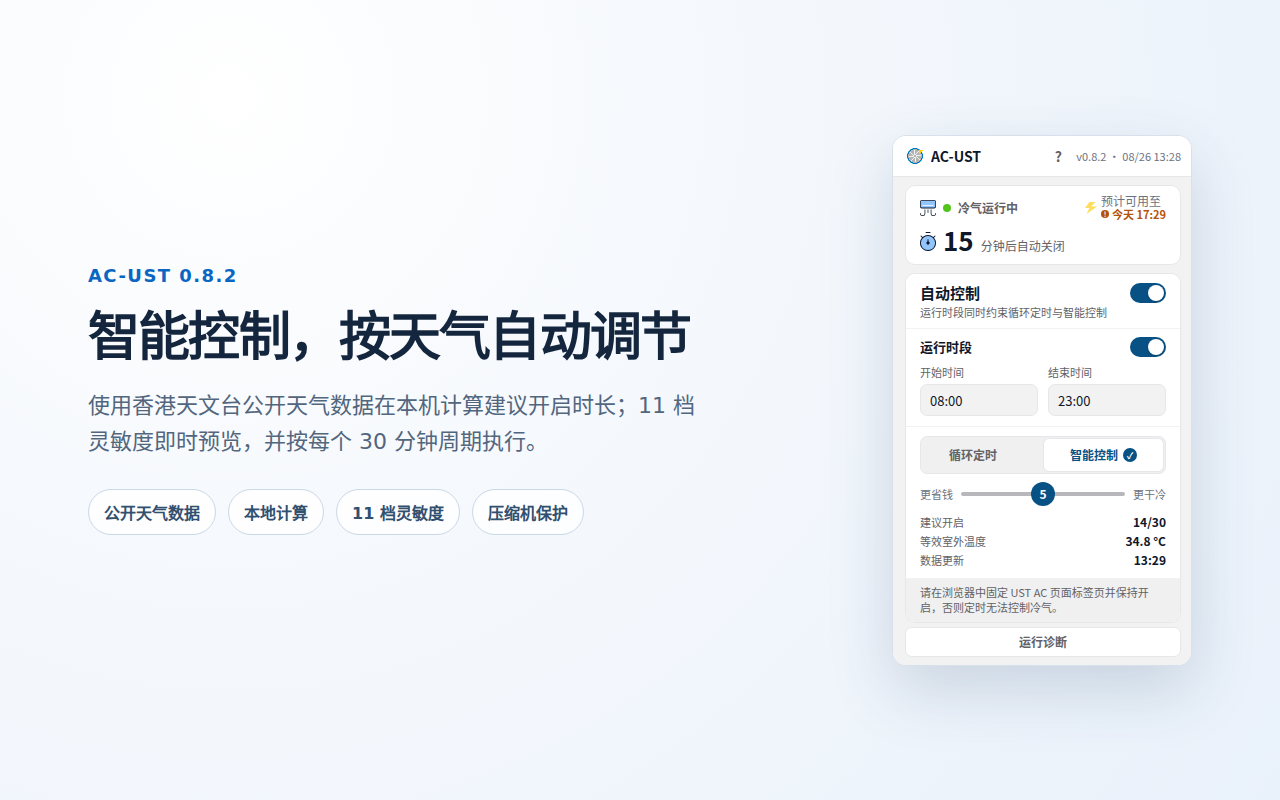
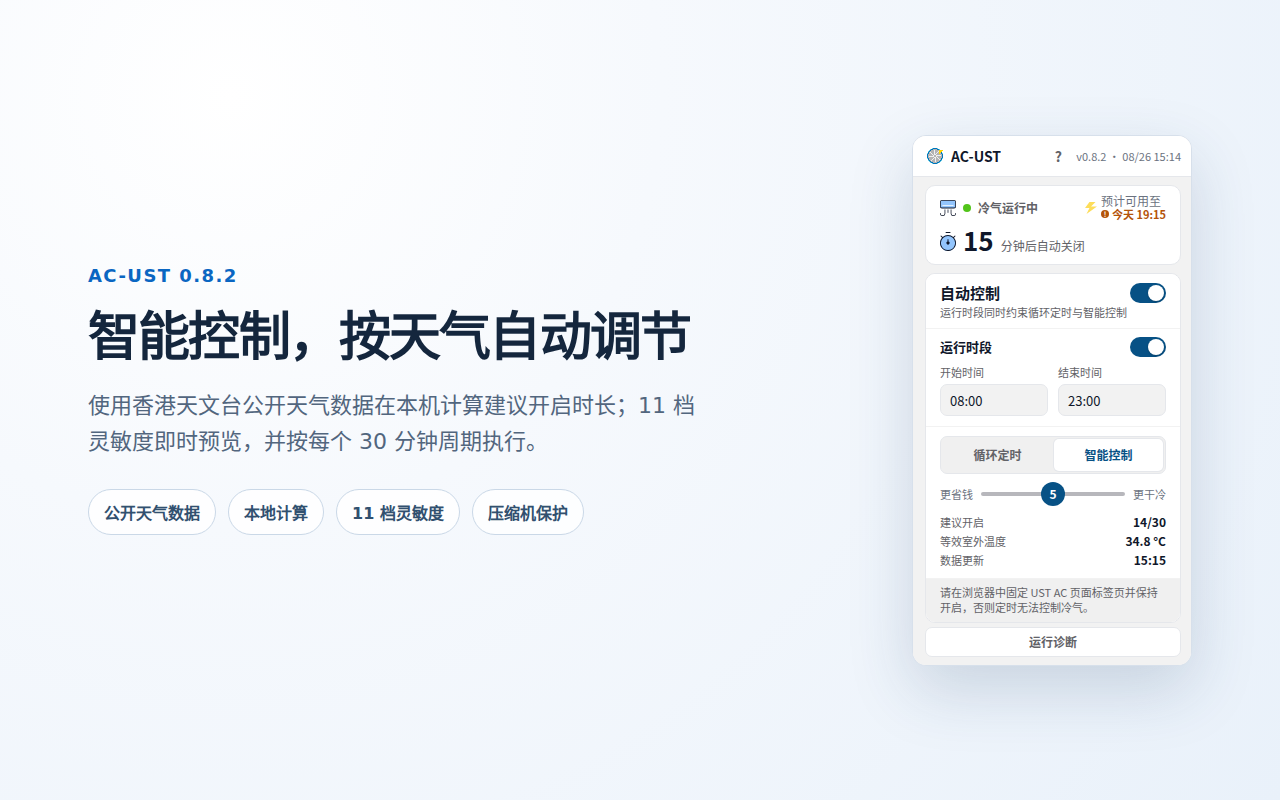
style(popup): slim layout / 收窄弹窗

diff --git a/popup.css b/popup.css
@@ -1,7 +1,7 @@
 /* AC-UST popup: restrained pre-Liquid-Glass macOS settings language. */
 :root {
   color-scheme: light;
-  --popup-width: 300px;
+  --popup-width: 280px;
   /* ============================================================
    * v0.6.3 设计转向：以 UST 页面色板为主、Apple HIG 为辅
    * （2026-08-04 从 .vscode/开机+已设置好定时.md 与关机.md 两份
@@ -428,7 +428,6 @@ input {
   display: flex;
   align-items: center;
   justify-content: center;
-  gap: 5px;
   min-width: 0;
   height: 32px;
   padding: 0 7px;
@@ -440,6 +439,7 @@ input {
   font-size: 12px;
   font-weight: 600;
   line-height: 16px;
+  white-space: nowrap;
   transition: background var(--transition), box-shadow var(--transition), color var(--transition), transform var(--transition);
 }
 
@@ -452,24 +452,6 @@ input {
   background: var(--surface);
   color: var(--accent);
   box-shadow: 0 0 0 1px var(--border);
-}
-
-.mode-choice-mark {
-  display: inline-flex;
-  align-items: center;
-  justify-content: center;
-  width: 14px;
-  height: 14px;
-  border-radius: 50%;
-  background: var(--accent);
-  color: #fff;
-  font-size: 9px;
-  line-height: 1;
-  visibility: hidden;
-}
-
-.mode-choice[aria-pressed="true"] .mode-choice-mark {
-  visibility: visible;
 }
 
 .mode-choice:active:not(:disabled) {

diff --git a/popup.html b/popup.html
@@ -1283,11 +1283,9 @@
         <div class="mode-segment">
           <button type="button" class="mode-choice" id="timerToggle" aria-pressed="false" aria-describedby="timerToggleState">
             <span id="pwmSettingsTitle" data-i18n="pwmSettings"></span>
-            <span class="mode-choice-mark" aria-hidden="true">✓</span>
           </button>
           <button type="button" class="mode-choice" id="smartModeToggle" aria-pressed="false" aria-describedby="smartModeToggleState">
             <span id="smartModeTitle" data-i18n="smartModeLabel"></span>
-            <span class="mode-choice-mark" aria-hidden="true">✓</span>
           </button>
         </div>
       <div class="mode-detail" id="timerBody" role="group" aria-labelledby="pwmSettingsTitle">

diff --git a/商店/素材模板.html b/商店/素材模板.html
@@ -31,7 +31,7 @@
       height: 100%;
       padding: 64px 88px;
       display: grid;
-      grid-template-columns: minmax(0, 1fr) 300px;
+      grid-template-columns: minmax(0, 1fr) 280px;
       align-items: center;
       gap: 92px;
     }
@@ -79,7 +79,7 @@
     }
 
     .popup-frame {
-      width: 300px;
+      width: 280px;
       overflow: hidden;
       border: 1px solid #d7e0eb;
       border-radius: 14px;
@@ -89,7 +89,7 @@
 
     iframe {
       display: block;
-      width: 300px;
+      width: 280px;
       height: 620px;
       border: 0;
       background: #f3f4f6;

diff --git a/CHANGELOG.md b/CHANGELOG.md
@@ -7,7 +7,7 @@
 - 补齐 Popup 页面自诊断：报告文档加载/可见状态、视口与内容尺寸、横向溢出、控件与权威 `schedule` 是否同步，以及 Popup→Service Worker 保活连接；设置提交中的瞬态会跳过同步判定，正常纵向滚动不报错，也不采集 URL、DOM 文本或账号信息。
 - 重构诊断输出：当前错误、警告与本次修复先汇总，再用稳定错误码、问题域、现场证据和唯一下一步定位首要问题；自动控制关闭、运行时段暂停与智能控制未启用按预期状态展示，不再制造假红灯。后台闹钟自愈返回修复前快照与逐项修复记录，诊断可区分原有闹钟和本次补建；历史异常继续单独展示，不参与当前健康度。
 - 加固自动控制竞态与页面适配：本地设置和远端同步共用串行事务，sync busy 时保留最新 mailbox、拒绝陈旧版本并对瞬时读取失败有界重试；页面关机证明只有目标仍在未来才可复用，智能灵敏度请求在 single-flight 或 PWM 占用期间保留尾随重算，且仅在最终设置提交成功后执行。popup 丢弃提交期间的旧轮询与旧响应、同时锁定两个互斥模式，并在运行时段暂停时隐藏余额耗尽估算。页面原生对话框仅在单次 AC 点击栈内代理，隐藏确认框、歧义 AC 开关和无法唯一关联的 `Power-off after` picker/OK 均失败关闭。
-- 重构弹窗自动控制信息架构：新增独立总开关统一启停，循环定时与智能控制改为只负责选型的等宽分段单选；关闭时仍可预设模式与参数。运行时段固定使用可访问的 24 小时 `HH:mm` 输入，分钟数非法时原位阻止提交且保留原值；popup 适度加宽至 300px，并同步商店截图外框与中英文标签。
+- 重构弹窗自动控制信息架构：新增独立总开关统一启停，循环定时与智能控制改为只负责选型的等宽分段单选；关闭时仍可预设模式与参数。运行时段固定使用可访问的 24 小时 `HH:mm` 输入，分钟数非法时原位阻止提交且保留原值；popup 收窄至 280px，并同步紧凑分段控件、商店截图外框与中英文标签。
 - 将「运行时段」从循环定时中抽离为循环定时与智能控制共用的独立自动执行门禁：采用同日半开区间 `[start,end)`，时段外保留 `schedule.enabled` 与所选模式，仅暂停 PWM、角标和看门狗运行闹钟，并通过页面 `Power-off after` 安全停机。重新进入后普通循环可立即恢复，智能控制仍等待下一次 `HH:00`/`HH:30` 首分钟；天气预取与页面关机重试不受暂停影响，自动控制已关闭时单独编辑时段也不会误触发停机。
 - 启动、跨设备同步、页面定时器采纳、看门狗、诊断自愈、时钟修复与灵敏度重设统一遵守运行时段门禁；自动 ON 在最终页面消息前、运行闹钟在创建前后再次复检，封堵边界切换期间的异步竞态。退出时段的 runtime 重置到首轮持久化之间会临时封锁旧 storage 回灌；popup 在暂停态保留模式开关、隐藏倒计时、忽略泄漏闹钟的时钟投影，并把运行闹钟修复统一委派给后台，避免诊断绕过最终门禁。暂停或显式重启会取消主世界尚未收敛的自动 ON 递归；安全关机使用独立 revision，恢复后旧验证和旧重试不能覆盖新周期。
 - 修复自动 ON 触发页面 BFCache 导航、消息端口关闭时的恢复竞态：旧业务子页即使仍为 `complete` 也不再被误判为控制页已就绪；同一控制标签必须真正回到精确 home 并完成加载后，才进行最多一次幂等开机重试。
